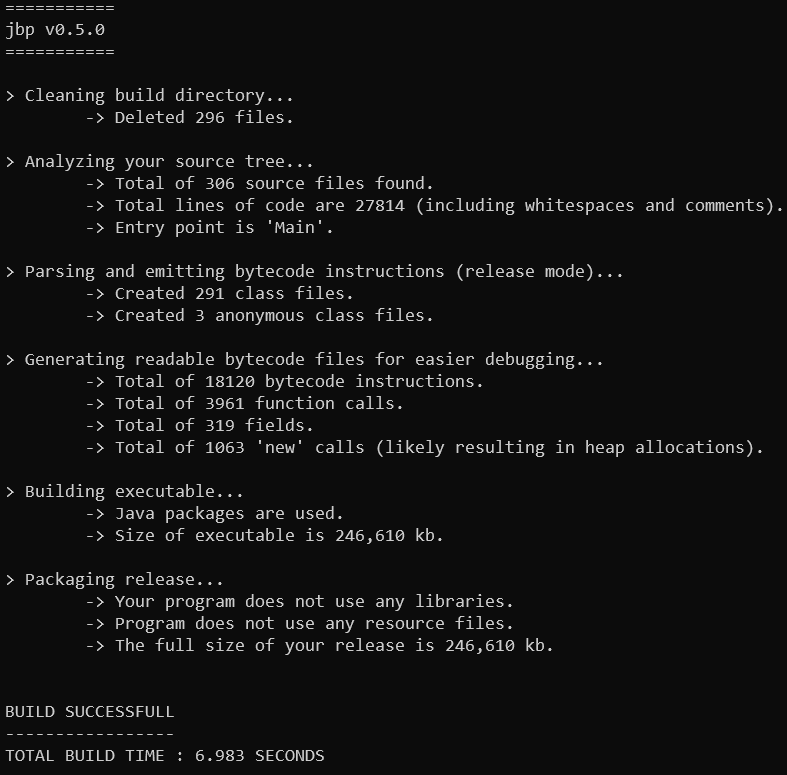
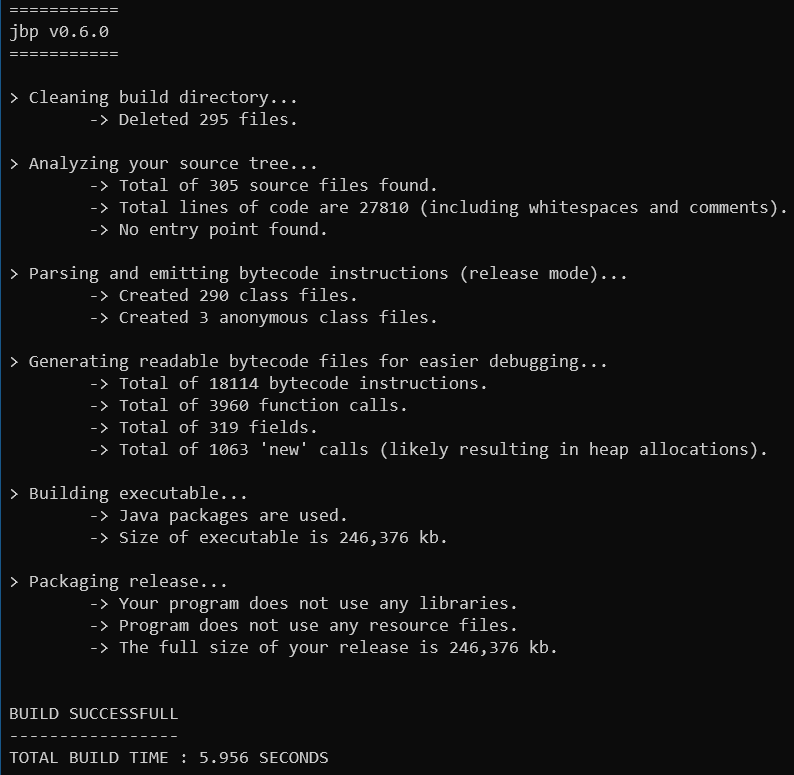
release 0.6.0; javadoc generation

diff --git a/jbp.java b/jbp.java
@@ -34,6 +34,7 @@ public final class jbp {
     private static long startNanoTime;
     private static String entryPoint = null;
     private static boolean compileWithDebugInfo = true;
+    private static boolean generateDoc = false;
 
     private static File[] listAllFiles(final File dir) throws IOException {
         assert dir != null;
@@ -382,7 +383,6 @@ public final class jbp {
                 for (int i = 0, l = lines.length; i < l; ++i) {
                     final String line = lines[i];
                     if (line.contains(":") && !line.equalsIgnoreCase("Code") && !line.equalsIgnoreCase("table")) { // @Robustness
-                        // @Bug: There are still some wrong values here; CHECK!
                         numberOfByteCodeInstructions += 1;
                         final String stripedLine = line.strip();
                         if (!stripedLine.contains("Code:")) {
@@ -479,6 +479,8 @@ public final class jbp {
             // For now we print a maximum number of 5 errors (-Xmaxerrs 5)
             // We also disable warning (-nowarn) because they are hardly every useful (execpt deprecated warnings)
             {
+                // @Todo: There seems to be javax.tool.JavaCompiler class which can do the compile while giving me more control (we can format nice error message more easily)
+                // Check whether we can use that instead of relying on javac in the path.
                 final String debugFlag = compileWithDebugInfo ? "-g" : "-g:none";
                 if (classpath.toString().isEmpty()) { // we have NO libraries
                     result = execShellCommand(null, null, "javac", "@sources.txt", "-Xdiags:verbose", "-Xlint:deprecation", "-Xmaxerrs", "5", "-nowarn", debugFlag, "-d", "build/classes");
@@ -525,6 +527,31 @@ public final class jbp {
             }
         } catch (final IOException ex) {
             buildFail("\t-> Failed to emit bytecode.");
+            assert false;
+        }
+    }
+
+    private static void generateDocumentation() {
+        System.out.println("> Generating JavaDoc for your project...");
+        final File javadocDir = new File("build/documentation");
+        if (!javadocDir.exists()) {
+            if (!javadocDir.mkdir()) {
+                buildFail("\t-> Failed to create javadoc directory.");
+                assert false;
+            }
+        }
+        try {
+            final String result = execShellCommand(null, null, "javadoc", "@sources.txt", "-d", "build/documentation");
+            // @Speed Statuscode instead of String.contains
+            if (result.contains("error")) {
+                System.out.println(result);
+                buildFail("\t-> Failed to generate documentation.");
+                assert false;
+            } else {
+                System.out.println("\t-> Documentation generated.");
+            }
+        } catch (final IOException ex) {
+            buildFail("\t-> Failed to generate documentation.");
             assert false;
         }
     }
@@ -583,6 +610,7 @@ public final class jbp {
         }
     }
 
+    // @Todo: Lets delete every directory (except build itself) aswell.
     private static void cleanBuildDirectory() {
         final File cwd = new File("build");
         if (!cwd.exists()) {
@@ -625,25 +653,75 @@ public final class jbp {
     public static void main(final String[] args) {
         if (args.length == 0) {
             compileWithDebugInfo = true;
+            generateDoc = false;
         } else if (args.length == 1) {
-            final String releaseMode = args[0];
-            if (releaseMode.equals("--debug")) {
+            final String arg = args[0];
+            if (arg.equals("--debug")) {
                 compileWithDebugInfo = true;
-            } else if (releaseMode.equals("--release")) {
+            } else if (arg.equals("--release")) {
                 compileWithDebugInfo = false;
+            } else if (arg.equals("--doc")) {
+                generateDoc = true;
+            } else if (arg.equals("--no-doc")) {
+                generateDoc = false;
             } else {
-                System.out.println("Invalid release mode specified.");
-                System.out.println("Release mode has to be either '--debug' or '--release'");
+                System.out.println("Invalid first argument.");
+                System.out.println("--debug   Compile with debug symbols (default).");
+                System.out.println("--release Compile without debug symbols.");
+                System.out.println("--doc     Generate javadoc for your project.");
+                System.out.println("--no-doc  Generate no javadoc for your project (default).");
+                System.exit(-1);
+            }
+        } else if (args.length == 2) {
+            // @Bug: In this branch; Possible to specify the same argument twice
+            final String arg1 = args[0];
+            if (arg1.equals("--debug")) {
+                compileWithDebugInfo = true;
+            } else if (arg1.equals("--release")) {
+                compileWithDebugInfo = false;
+            } else if (arg1.equals("--doc")) {
+                generateDoc = true;
+            } else if (arg1.equals("--no-doc")) {
+                generateDoc = false;
+            } else {
+                System.out.println("Invalid first argument.");
+                System.out.println("First argument can only be one of the following: ");
+                System.out.println("--debug   Compile with debug symbols (default).");
+                System.out.println("--release Compile without debug symbols.");
+                System.out.println("--doc     Generate javadoc for your project.");
+                System.out.println("--no-doc  Generate no javadoc for your project (default).");
+                System.exit(-1);
+            }
+            final String arg2 = args[1];
+            if (arg2.equals("--debug")) {
+                compileWithDebugInfo = true;
+            } else if (arg2.equals("--release")) {
+                compileWithDebugInfo = false;
+            } else if (arg2.equals("--doc")) {
+                generateDoc = true;
+            } else if (arg2.equals("--no-doc")) {
+                generateDoc = false;
+            } else {
+                System.out.println("Invalid second argument.");
+                System.out.println("Second argument can only be one of the following: ");
+                System.out.println("--debug   Compile with debug symbols (default).");
+                System.out.println("--release Compile without debug symbols.");
+                System.out.println("--doc     Generate javadoc for your project.");
+                System.out.println("--no-doc  Generate no javadoc for your project (default).");
                 System.exit(-1);
             }
         } else {
-            System.out.println("Invalid amount of arguments specified.");
-            System.out.println("Either run with '--debug' or '--release' or omit it to choose debug mode.");
+            assert args.length > 2;
+            System.out.println("Invalid amount of arguments specified (0 - 2).");
+            System.out.println("--debug   Compile with debug symbols (default).");
+            System.out.println("--release Compile without debug symbols.");
+            System.out.println("--doc     Generate javadoc for your project.");
+            System.out.println("--no-doc  Generate no javadoc for your project (default).");
             System.exit(-1);
         }
 
         System.out.println("===========");
-        System.out.println("jbp v0.5.0");
+        System.out.println("jbp v0.6.0");
         System.out.println("===========");
         System.out.println();
         startNanoTime = System.nanoTime();
@@ -652,6 +730,10 @@ public final class jbp {
             System.out.println();
             analyzeSourceTree();
             System.out.println();
+            if (generateDoc) {
+                generateDocumentation();
+                System.out.println();
+            }
             createClassFiles();
             System.out.println();
             createByteCodeFiles();

diff --git a/README.md b/README.md
@@ -29,10 +29,12 @@ java jbp
 That is all. After that your project will build.
 ![output](image.PNG)
 
+You can also specify whether you want to include debug information
+when compiling by either using '--debug' or '--release'.
+If you omit it debug information will be included.
 
-You can also specify whether you want to include debug information when compiling
-by either using '--debug' or '--release'. If you omit it debug information will
-be included.
+In case you want to generate javadoc for your project simple add
+the '--doc' flag when executing the build.
 
 If you want to run/test your program, a nice way is to execute the following command sequence:
 ```
